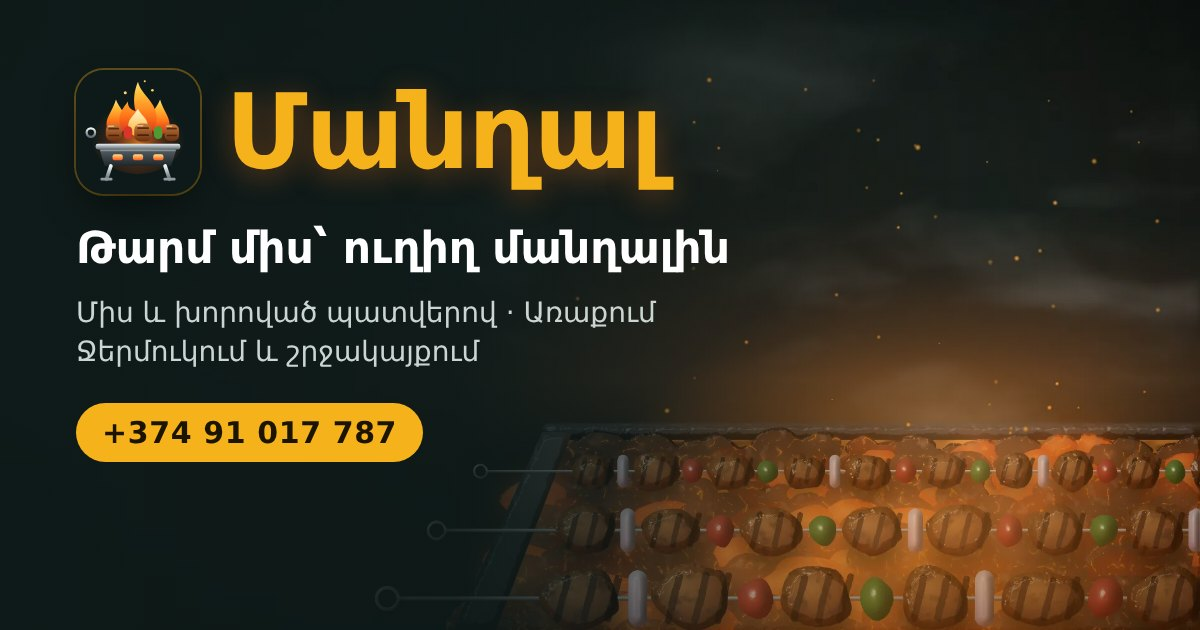
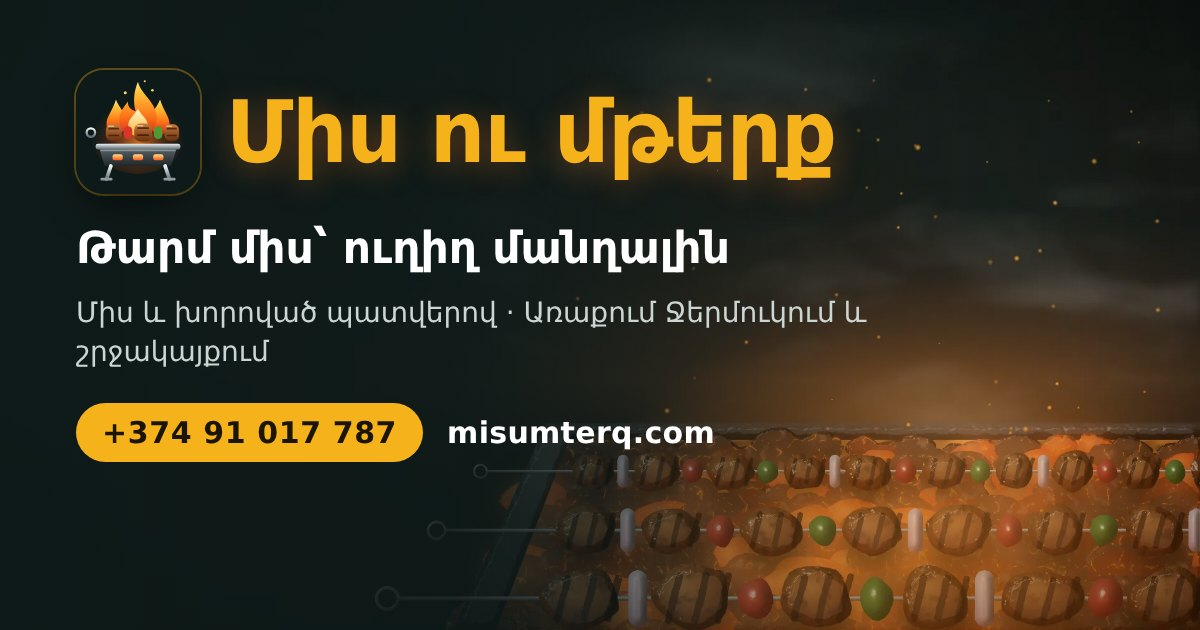
some changes

diff --git a/src/components/organisms/CartDrawer.vue b/src/components/organisms/CartDrawer.vue
@@ -11,6 +11,7 @@ import { money } from '../../utils/format'
 import { discountLabel, perksText, SEGMENT_ICON } from '../../utils/segments'
 import OverlayShell from '../molecules/OverlayShell.vue'
 import CartLine from '../molecules/CartLine.vue'
+import ProductArt from '../atoms/ProductArt.vue'
 import ChoiceToggle from '../molecules/ChoiceToggle.vue'
 import AppButton from '../atoms/AppButton.vue'
 import CheckoutForm from './CheckoutForm.vue'
@@ -48,6 +49,16 @@ const methodOptions = computed(() => [
       <template v-else>
         <TransitionGroup name="line" tag="ul" class="drawer__lines">
           <CartLine v-for="i in cart.items" :key="i.id" :item="i" @change="change(i, $event)" />
+          <!-- обязательный «Լավաշ + աման» к шашлыку: считается сам, убрать его нельзя -->
+          <li v-if="cart.pack" key="pack" class="pack">
+            <span class="pack__art" aria-hidden="true"><ProductArt kind="bread" /></span>
+            <div class="pack__body">
+              <b>{{ cart.pack.name }}</b>
+              <small>{{ $t('cart.pack', { kg: catalog.kebab.pack?.perKg ?? 3 }) }}</small>
+              <em>{{ money(cart.pack.price) }}</em>
+            </div>
+            <span class="pack__qty">× {{ cart.pack.qty }}</span>
+          </li>
         </TransitionGroup>
 
         <ChoiceToggle v-model="method" :options="methodOptions" :label="$t('cart.methodLabel')" class="drawer__method" />
@@ -100,4 +111,12 @@ h2 { margin:0; font-size:22px; }
 .line-enter-active, .line-leave-active, .line-move { transition:opacity .3s, transform .35s var(--ease); }
 .line-enter-from, .line-leave-to { opacity:0; transform:translateX(30px); }
 .line-leave-active { position:absolute; width:calc(100% - 2 * clamp(14px, 3vw, 24px)); }
+.pack { display:flex; align-items:center; gap:12px; padding-bottom:14px; border-bottom:1px solid var(--line); }
+.pack__art { display:grid; place-items:center; flex:none; width:52px; height:52px; border-radius:var(--r-md); background:var(--cream); }
+.pack__art > * { width:80%; height:80%; }
+.pack__body { flex:1; min-width:0; display:flex; flex-direction:column; font-size:14px; overflow-wrap:anywhere; }
+.pack__body small { color:var(--muted); font-size:12px; }
+.pack__body em { margin-top:2px; font-style:normal; font-weight:800; }
+.pack__qty { flex:none; padding:6px 12px; border-radius:var(--pill); background:var(--bg); font-size:14px; font-weight:800; }
+@media (max-width:480px) { .pack__art { width:44px; height:44px; } .pack { gap:8px; } }
 </style>

diff --git a/index.html b/index.html
@@ -3,7 +3,7 @@
   <head>
     <meta charset="UTF-8" />
     <meta name="viewport" content="width=device-width, initial-scale=1" />
-    <title>Մանղալ — թարմ միս և խորոված</title>
+    <title>Միս ու մթերք — թարմ միս և խորոված</title>
     <meta name="description" content="Թարմ միս և խորոված պատվերով։ Առաքում Ջերմուկում և շրջակայքում։" />
     <meta name="theme-color" content="#0e1a19" />
     <link rel="icon" type="image/svg+xml" href="/favicon.svg" />
@@ -12,11 +12,11 @@
     <link rel="manifest" href="/manifest.webmanifest" />
     <!-- превью ссылки в Facebook, Telegram, Viber, WhatsApp -->
     <meta property="og:type" content="website" />
-    <meta property="og:site_name" content="Մանղալ" />
-    <meta property="og:title" content="Մանղալ — թարմ միս և խորոված" />
+    <meta property="og:site_name" content="Միս ու մթերք" />
+    <meta property="og:title" content="Միս ու մթերք — թարմ միս և խորոված" />
     <meta property="og:description" content="Թարմ միս և խորոված պատվերով։ Առաքում Ջերմուկում և շրջակայքում։" />
-    <meta property="og:url" content="https://xanut.vercel.app/" />
-    <meta property="og:image" content="https://xanut.vercel.app/og.jpg" />
+    <meta property="og:url" content="https://misumterq.com/" />
+    <meta property="og:image" content="https://misumterq.com/og.jpg" />
     <meta property="og:image:width" content="1200" />
     <meta property="og:image:height" content="630" />
     <meta property="og:locale" content="hy_AM" />
@@ -26,11 +26,11 @@
       {
         "@context": "https://schema.org",
         "@type": "Store",
-        "name": "Մանղալ",
+        "name": "Միս ու մթերք",
         "description": "Թարմ միս և խորոված պատվերով։ Առաքում Ջերմուկում և շրջակայքում։",
-        "url": "https://xanut.vercel.app/",
-        "image": "https://xanut.vercel.app/og.jpg",
-        "logo": "https://xanut.vercel.app/icons/icon-512.png",
+        "url": "https://misumterq.com/",
+        "image": "https://misumterq.com/og.jpg",
+        "logo": "https://misumterq.com/icons/icon-512.png",
         "telephone": "+37491017787",
         "email": "mangaljermuk@gmail.com",
         "address": { "@type": "PostalAddress", "addressLocality": "Ջերմուկ", "addressRegion": "Վայոց ձոր", "addressCountry": "AM" },

diff --git a/src/stores/cart.ts b/src/stores/cart.ts
@@ -65,7 +65,15 @@ export const useCart = defineStore('cart', {
   getters: {
     count: (s): number => s.items.reduce((n, i) => n + i.qty, 0),
     // price здесь — только для показа: сервер пересчитывает цены сам (у бонусных товаров price = 0)
-    subtotal: (s): number => s.items.reduce((n, i) => n + i.price * i.qty, 0),
+    subtotal(): number { return this.items.reduce((n, i) => n + i.price * i.qty, 0) + (this.pack ? this.pack.price * this.pack.qty : 0) },
+    /** Весь шашлык из окна шашлыка в корзине, кг. */
+    kebabKg: (s): number => s.items.reduce((n, i) => n + (i.kind === 'kebab' && i.kebab ? i.kebab.kg * i.qty : 0), 0),
+    /** «Լավաշ + աման»: один на каждые начатые 3 кг шашлыка — сервер добавит его к заказу сам, отдельной позицией. */
+    pack(): { name: string; price: number; qty: number } | null {
+      const p = useCatalog().kebab.pack
+      if (!p || !(this.kebabKg > 0)) return null
+      return { name: p.name, price: p.price, qty: Math.ceil(this.kebabKg / p.perKg - 1e-9) }
+    },
     /** Акция группы покупателя (новый, постоянный, VIP): скидка, баллы, бесплатная доставка. */
     perks: (): Perks => useBonus().perks,
     /** Цена с акцией — так же, как посчитает сервер. Порог бесплатной доставки — по сумме до скидки. */
@@ -173,7 +181,7 @@ export const useCart = defineStore('cart', {
         added += item.qty
       }
       for (const it of order.items) {
-        if (it.kind === 'bonus') continue
+        if (it.kind === 'bonus' || it.kind === 'pack') continue
         const o = (it.options ?? {}) as KebabOptions
         const p = it.productId == null ? undefined : byId.get(it.productId)
         if (it.kind === 'kebab') {

diff --git a/src/types.ts b/src/types.ts
@@ -33,7 +33,9 @@ export interface Product {
 export interface KebabMeat { id: string; name: string; perKg: number }
 /** note — состав добавки (показывается под названием). */
 export interface KebabExtra { id: string; name: string; price: number; note?: string }
-export interface KebabConfig { meats: KebabMeat[]; marinades: string[]; extras: KebabExtra[] }
+/** Обязательный «Լավաշ + աման» к шашлыку: один на каждые начатые perKg кг всего шашлыка в заказе (старый сервер его не присылает). */
+export interface KebabPack { name: string; price: number; perKg: number }
+export interface KebabConfig { meats: KebabMeat[]; marinades: string[]; extras: KebabExtra[]; pack?: KebabPack }
 export interface KebabSelection { meat: string; kg: number; marinade: string; extras: string[]; comment?: string }
 export interface BonusConfig { percent: number; rate: number; matureHours: number; maxQty: number }
 /** Группа клиента: новый, постоянный, VIP. */

diff --git a/src/utils/passwordPolicy.ts b/src/utils/passwordPolicy.ts
@@ -21,7 +21,7 @@ const COMMON_WORDS = new Set([
   'soccer', 'superman', 'batman', 'starwars', 'trustno', 'freedom', 'whatever', 'shadow', 'secret', 'summer', 'winter', 'spring',
   'autumn', 'michael', 'jennifer', 'charlie', 'jordan', 'killer', 'pokemon', 'naruto', 'google', 'facebook', 'instagram', 'apple',
   'samsung', 'computer', 'internet', 'test', 'testing', 'default', 'changeme', 'guest', 'qazwsx', 'zaqxsw', 'asdfgh', 'zxcvbn',
-  'abc', 'abcd', 'armenia', 'hayastan', 'yerevan', 'erevan', 'ararat', 'mangal', 'khorovats', 'xorovac', 'shashlik', 'shashlyk',
+  'abc', 'abcd', 'armenia', 'hayastan', 'yerevan', 'erevan', 'ararat', 'mangal', 'misumterq', 'khorovats', 'xorovac', 'shashlik', 'shashlyk',
   'jermuk', 'privet', 'parolchik', 'mypassword', 'mypass', 'newpassword',
 ])
 /** Эти куски недопустимы даже внутри пароля: «MyPassword», «Qwerty#2026», «ILoveYou!». */

diff --git a/src/components/atoms/AppLogo.vue b/src/components/atoms/AppLogo.vue
@@ -17,5 +17,6 @@ import LogoMark from './LogoMark.vue'
 b { font-size:clamp(18px, 1.9vw, 22px); font-weight:800; letter-spacing:-.01em; background:linear-gradient(90deg, #fff 55%, var(--yellow)); -webkit-background-clip:text; background-clip:text; color:transparent; }
 small { margin-top:3px; font-size:11px; color:var(--yellow); }
 @media (max-width:1000px) { small { display:none; } } /* девиз в узкой шапке переносился в три строки */
-@media (max-width:480px) { .logo__mark { width:38px; height:38px; } }
+/* телефон: название в две строки («Միս ու» / «մթերք»), чтобы шапка помещалась в одну строку и у вошедшего (баллы, кабинет, корзина) */
+@media (max-width:480px) { .logo__mark { width:38px; height:38px; } b { max-width:5.4em; font-size:16px; line-height:1.05; } }
 </style>

diff --git a/src/components/organisms/KebabOrderModal.vue b/src/components/organisms/KebabOrderModal.vue
@@ -139,6 +139,7 @@ function add() {
               <small v-if="e.note" class="kb__note">{{ e.note }}</small>
             </AppCheckbox>
           </fieldset>
+          <p v-if="kebab.pack" class="kb__hint">🫓 {{ $t('kebab.packHint', { name: kebab.pack.name, price: kebab.pack.price.toLocaleString('en-US'), kg: kebab.pack.perKg }) }}</p>
           <FormField v-model="form.comment" as="textarea" rows="2" :maxlength="KEBAB_COMMENT_MAX" :label="$t('kebab.comment')" />
         </template>
 

diff --git a/src/components/atoms/LogoMark.vue b/src/components/atoms/LogoMark.vue
@@ -1,6 +1,6 @@
 <script setup lang="ts">
 import { useId } from 'vue'
-// Эмблема «Մանղալ»: стальной мангал на ножках, угли светятся в прорезях,
+// Эмблема магазина: стальной мангал на ножках, угли светятся в прорезях,
 // над ним шампур с мясом и овощами и живое пламя.
 const u = useId()
 const id = (n: string) => `${u}-${n}`

diff --git a/README.md b/README.md
@@ -1,4 +1,4 @@
-# Մանղալ — сайт (Vue 3 + TypeScript + Vite)
+# Միս ու մթերք — сайт (Vue 3 + TypeScript + Vite) · https://misumterq.com
 
 Магазин мяса и шашлыка в Джермуке: каталог, заказ шашлыка и мяса с доставкой, регистрация с кодом подтверждения.
 
@@ -97,7 +97,7 @@ CSP (`script-src`, `connect-src`, `frame-src`, `img-src`), иначе брауз
 `index.html` — описание и картинка для превью ссылок в Facebook, Telegram, Viber (`public/og.jpg`) и данные магазина для
 Google (адрес, телефон, часы — блок `application/ld+json`). `public/manifest.webmanifest` и `public/icons/` — иконка при
 добавлении сайта на главный экран телефона. `public/robots.txt` и `public/sitemap.xml` — для поисковиков.
-**Если подключите свой домен** вместо `xanut.vercel.app`, замените адрес в этих трёх файлах и в `index.html`.
+Адрес сайта — `https://misumterq.com` (прописан в этих трёх файлах и в `index.html`; при смене домена замените его там же).
 Неизвестный адрес показывает страницу «Էջը չի գտնվել».
 
 ## Тестовый режим
